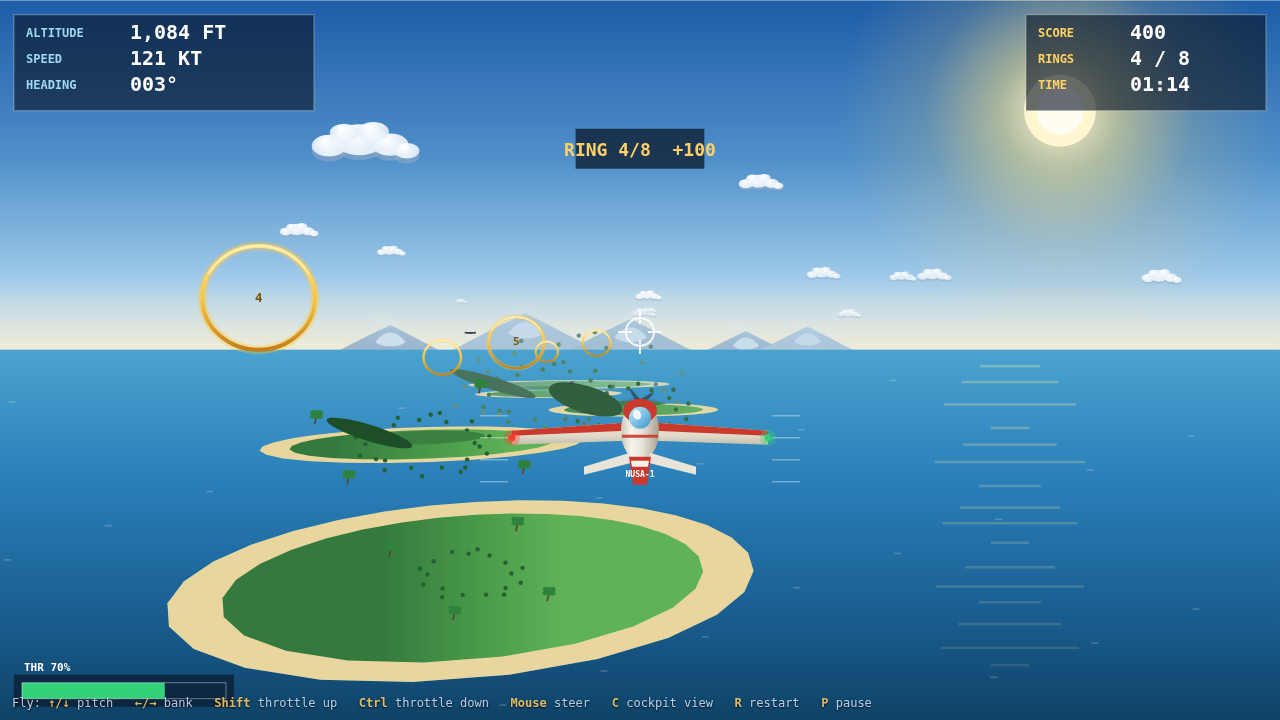
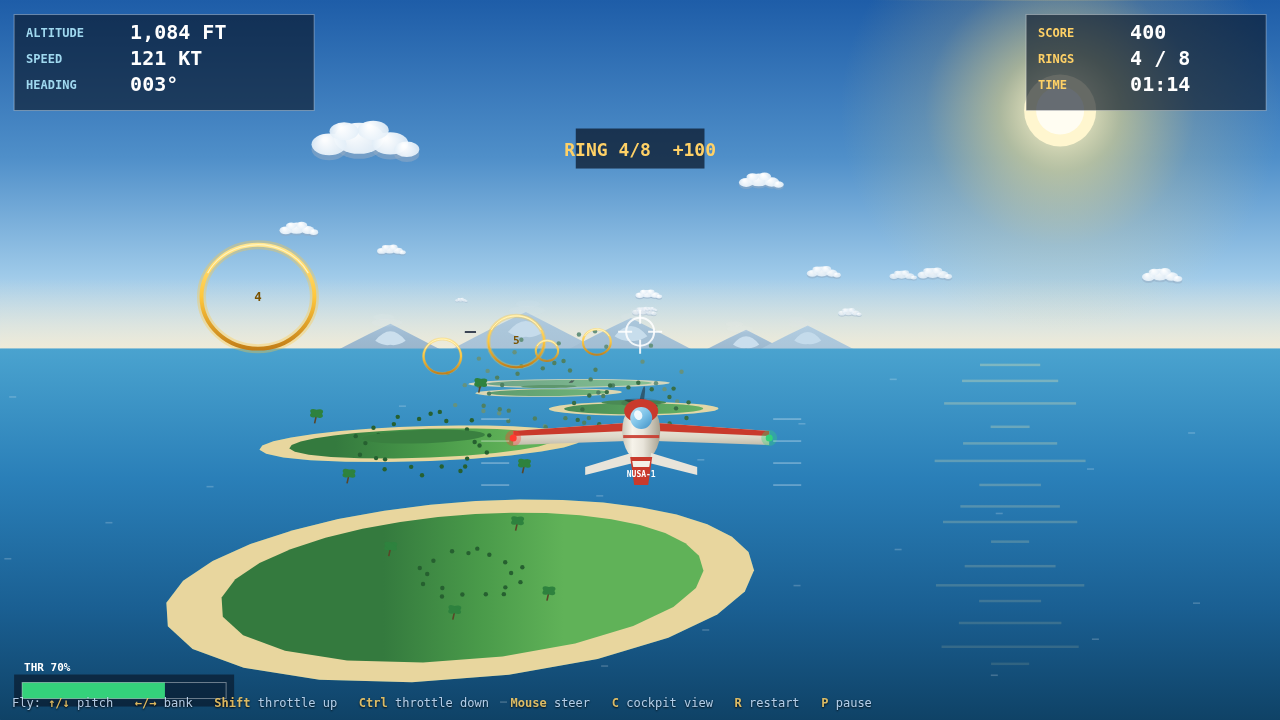
best-flight-game: remove floating jungle-thicket ellipses — dark green ovals read as flying blobs above the islands; islands keep hill cap, palms, speckle

diff --git a/game/index.html b/game/index.html
@@ -457,19 +457,13 @@ function drawSeaAndIslands(){
         ctx.beginPath(); ctx.ellipse(px+2, py-10, 7, 3.4, 0.5, 0, 6.283); ctx.fill();
       }
     }
-    // Hill cap + a darker jungle thicket for tall islands (no grey rock
-    // blob — a hard ellipse reads as a fake sticker, not terrain).
+    // Hill cap for tall islands (a darker green rise, part of the island).
     if (isl.h>40){
       const hill = shrink(0.38);
       ctx.fillStyle = hazeColor([58, 128, 64], dist);
       ctx.beginPath(); ctx.moveTo(hill[0].x, hill[0].y-6);
       for (let i=1;i<hill.length;i++) ctx.lineTo(hill[i].x, hill[i].y-6);
       ctx.closePath(); ctx.fill();
-      // Dense jungle patch on the shaded (west) side of the hill.
-      ctx.fillStyle = hazeColor([30, 78, 40], dist);
-      ctx.beginPath();
-      ctx.ellipse(cx - isl.rx*0.10, cy - 10, isl.rx*0.08, isl.h*0.09, 0.3, 0, 6.283);
-      ctx.fill();
     }
     // Island name (only when it fits on screen).
     if (isl.name){
